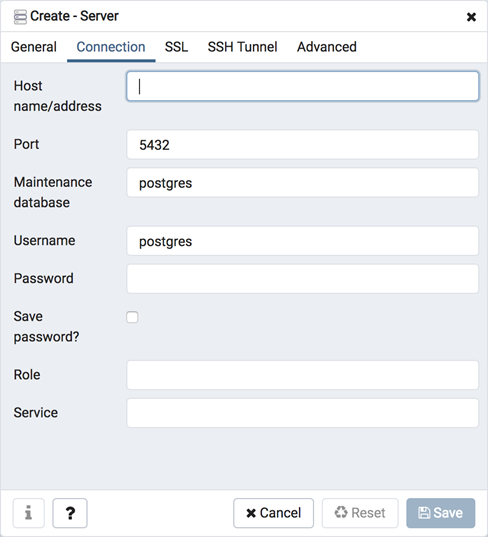
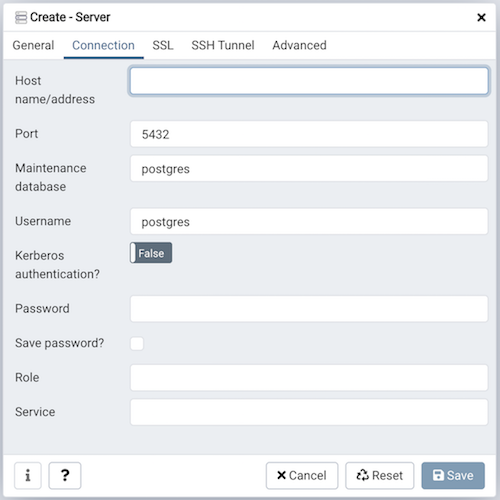
Update Kerberos docs for phase 2.

diff --git a/docs/en_US/kerberos.rst b/docs/en_US/kerberos.rst
@@ -4,7 +4,12 @@
 `Enabling Kerberos Authentication`:index:
 *****************************************
 
-To configure Kerberos authentication, you must set your Kerberos Server and generate the *kinit* ticket on the client. To enable the Kerberos authentication for pgAdmin, you must configure the Kerberos settings in *config_local.py* or *config_system.py* (see the :ref:`config.py <config_py>` documentation) on the system where pgAdmin is installed in Server mode. You can copy these settings from *config.py* file and modify the values for the following parameters.
+To configure Kerberos authentication, you must setup your Kerberos Server and
+generate a ticket on the client using *kinit*. To enable Kerberos authentication
+for pgAdmin, you must configure the Kerberos settings in *config_local.py* or
+*config_system.py* (see the :ref:`config.py <config_py>` documentation) on the
+system where pgAdmin is installed in Server mode. You can copy these settings
+from *config.py* file and modify the values for the following parameters.
 
 .. csv-table::
    :header: "**Parameter**", "**Description**"
@@ -12,25 +17,42 @@ To configure Kerberos authentication, you must set your Kerberos Server and gene
    :widths: 35, 55
 
    "AUTHENTICATION_SOURCES","The default value for this parameter is *internal*.
-   To enable Kerberos authentication, you must include *kerberos* in the list of values for this parameter. you can modify the value as follows:
+   To enable Kerberos authentication, you must include *kerberos* in the
+   list of values for this parameter. you can modify the value as follows:
 
    * [‘kerberos’]: pgAdmin will use only Kerberos authentication.
 
-   * [‘kerberos’, ‘internal’]: pgAdmin will first try to authenticate the user through kerberos. If that authentication fails, then it will return back to the login dialog where you need to provide internal pgAdmin user credentials for authentication."
-   "KERBEROS_AUTO_CREATE_USER", "Specify value to *True* if you want to automatically create a pgAdmin user corresponding to the kerberos user credentials. Please note that password is not stored in the pgAdmin database."
-   "KRB_APP_HOST_NAME", "Specify the name of *pgAdmin webserver hostname*. Please note that if it is not set, it will take the value of *default_server* parameter."
+   * [‘kerberos’, ‘internal’]: pgAdmin will first try to authenticate the user
+     through kerberos. If that authentication fails, then it will return back
+     to the login dialog where you need to provide internal pgAdmin user
+     credentials for authentication."
+   "KERBEROS_AUTO_CREATE_USER", "Set the value to *True* if you want to
+   automatically create a pgAdmin user corresponding to a successfully
+   authenticated Kerberos user. Please note that password is not stored in the
+   pgAdmin database."
+   "KRB_APP_HOST_NAME", "Specify the name of *pgAdmin webserver hostname*.
+   Please note that if it is not set, it will take the value of
+   *default_server* parameter."
 
 Keytab file for HTTP Service
 ============================
 
-* Generate the *Keytab* file for the HTTP service principal and copy it to the *pgAdmin* webserver machine. Ensure that the operating system user owning the *pgAdmin* webserver is the owner of this file and should be accessible by that user.
+* Generate the *Keytab* file for the HTTP service principal and copy it to the
+  *pgAdmin* webserver machine. Ensure that the operating system user owning
+  the *pgAdmin* webserver is the owner of this file and should be accessible
+  by that user.
 
-* Please note that either you should set *default_keytab_name* parameter in *krb5.conf* file or the environment variable *KRB5_KTNAME*. If not set then explicitly set *KRB_KTNAME* to the location of your *Keytab* file in the *config_local.py* or *config_system.py* file.
+* Please note that either you should set *default_keytab_name* parameter in
+  *krb5.conf* file or the environment variable *KRB5_KTNAME*. If not set then
+  explicitly set *KRB_KTNAME* to the location of your *Keytab* file in the
+  *config_local.py* or *config_system.py* file.
 
 Apache HTTPD Configuration
 ==========================
 
-If the *pgAdmin* server is under the Apache Server, then you need to add the following parameters in *Directory* directive of :ref:`Apache HTTPD Configuration <server_deployment>`:
+If the *pgAdmin* server is under the Apache Server, then you need to add the
+following parameters in *Directory* directive of
+:ref:`Apache HTTPD Configuration <server_deployment>`:
 
    * WSGIScriptReloading On
 
@@ -40,30 +62,57 @@ If the *pgAdmin* server is under the Apache Server, then you need to add the fol
 Browser settings to configure Kerberos Authentication
 =====================================================
 
-You need to do the browser settings on the client machine to use the *Spnego/Kerberos*.
+You need to configure the browser settings on the client machine to use
+Kerberos authentication via *SPNEGO*.
 
 - For Mozilla Firefox
 
-  - Open the low level Firefox configuration page by loading the *about:config* page.
+  - Open the low level Firefox configuration page by entering *about:config* in
+    the address bar.
   - In the Search text box, enter: *network.negotiate-auth.trusted-uris*
-  - Double-click the *network.negotiate-auth.trusted-uris* preference and enter the hostname or the domain of the web server that is protected by Kerberos HTTP SPNEGO. Separate multiple domains and hostnames with a comma.
+  - Double-click the *network.negotiate-auth.trusted-uris* preference and enter
+    the hostname or the domain of the web server that is protected by Kerberos
+    HTTP SPNEGO. Separate multiple domains and hostnames with a comma.
   - Click OK.
 
 - For Google Chrome
 
-  - For Windows:
+  - On Windows:
 
     * Open the Control Panel to access the Internet Options dialog.
     * Select the Security tab.
     * Select the Local Intranet zone and click the Sites button.
-    * Make sure that the first two options, Include all local (intranet) sites not listed in other zones and Include all sites that bypass the proxy server are checked.
-    * Click Advanced and add the names of the domains that are protected by Kerberos HTTP SPNEGO, one at a time, to the list of websites. For example, myhost.example.com. Click Close.
+    * Make sure that the first two options, *Include all local (intranet) sites
+      not listed in other zones* and *Include all sites that bypass the proxy
+      server* are checked.
+    * Click Advanced and add the names of the domains that are protected by
+      Kerberos HTTP SPNEGO, one at a time, to the list of websites. For example,
+      myhost.example.com. Click Close.
     * Click OK to save your configuration changes.
 
-  - For Linux or MacOS:
+  - On Linux or macOS:
 
-    * Add the *--auth-server-whitelist* parameter to the google-chrome command. For example, to run Chrome from a Linux prompt, run the google-chrome command as follows:
+    * Add the *--auth-server-whitelist* parameter to the google-chrome command.
+      For example, to run Chrome from a Linux prompt, run the google-chrome
+      command as follows:
 
     .. code-block:: text
 
        google-chrome --auth-server-whitelist = "hostname/domain"
+
+
+PostgreSQL Server settings to configure Kerberos Authentication
+===============================================================
+
+* To connect the PostgreSQL server with Kerberos authentication, GSSAPI support
+  has to be enabled when PostgreSQL is built and the necessary
+  `configuration <https://www.postgresql.org/docs/current/gssapi-auth.html>`_
+  has to be in place.
+
+* In pgAdmin you need to enable Kerberos authentication for the PostgreSQL
+  server by setting "Kerberos authentication" flag to True in the Server dialog.
+  Once it is enabled, pgAdmin will not prompt for a password and will try to
+  connect to the PostgreSQL server using Kerberos.
+
+* Note that, you have to login into pgAdmin with Kerberos authentication to
+  then connect to PostgreSQL using Kerberos.

diff --git a/docs/en_US/server_dialog.rst b/docs/en_US/server_dialog.rst
@@ -31,15 +31,18 @@ Use the fields in the *General* tab to identify the server:
   connection to the server upon completion of the dialog; this is the default
 
 * If the *Shared?* switch is moved to *Yes* then that server can be
-  shared with all the other users. This option is available only to admin users. For more information on users see :ref:`User Management Dialog <user_management>`. The users can access the shared servers with some restritctions. The Users accessing the shared servers cannot do the following operations on the shared servers:
+  shared with all the other users. This option is available only to admin users.
+  For more information on users see :ref:`User Management Dialog <user_management>`.
+  Users can access the shared servers with some restrictions - the following
+  operations on shared servers are not permitted:
 
-    * Create a server
     * Delete the server
     * Rename the server
     * Rename the group server
     * Change of host, port, and maintenance database
 
-  Please note that once the server is shared, it's icon is changed in the browser tree.
+  Please note that once the server is shared, it's icon is changed in the
+  browser tree.
 
 * Provide a comment about the server in the *Comments* field.
 
@@ -62,6 +65,8 @@ Use the fields in the *Connection* tab to configure a connection:
   installed on that database.
 * Use the *Username* field to specify the name of a role that will be used when
   authenticating with the server.
+* When *Kerberos authentication?* is set to *True*, pgAdmin will try to connect
+  the PostgreSQL server using Kerberos authentication.
 * Use the *Password* field to provide a password that will be supplied when
   authenticating with the server.
 * Check the box next to *Save password?* to instruct pgAdmin to save the
